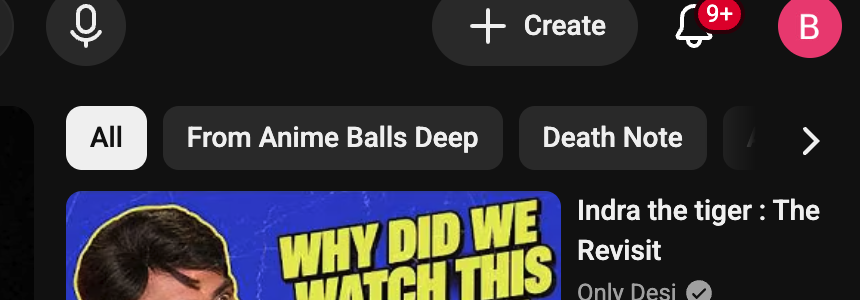
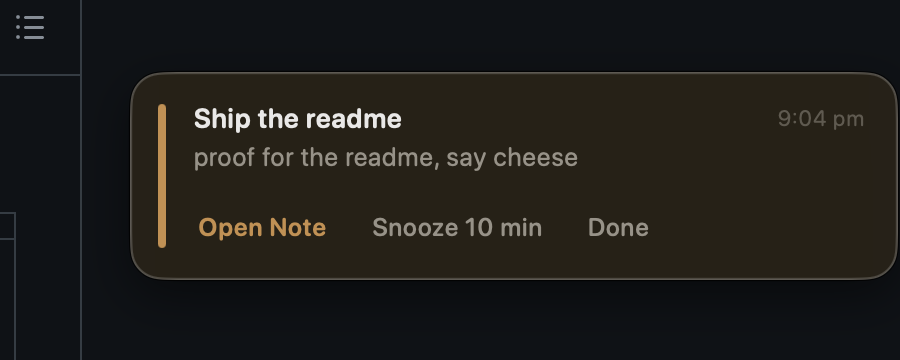
readme: the full tour, with receipts
real reminder pair, shelf shot, complete feature catalog, now-ago fix

diff --git a/Sources/PeelKit/CLI.swift b/Sources/PeelKit/CLI.swift
@@ -33,7 +33,8 @@ public enum CLI {
         for note in notes {
             let todos = note.todoCounts
             let todoTag = todos.open + todos.done > 0 ? "  [\(todos.done)/\(todos.open + todos.done)]" : ""
-            let age = (note.updated.shortAge + " ago").padding(toLength: 8, withPad: " ", startingAt: 0)
+            let raw = note.updated.shortAge
+            let age = (raw == "now" ? raw : raw + " ago").padding(toLength: 8, withPad: " ", startingAt: 0)
             print("\(note.id)  \(age)\(todoTag)  \(note.title)")
         }
         return 0

diff --git a/README.md b/README.md
@@ -53,14 +53,85 @@ one interaction is the whole reason Peel exists. Everything else grew around it.
 | --- | --- |
 | <img src="docs/sticky.png" alt="Sticky with inline image token and todos"> | <img src="docs/formatting.png" alt="Live markdown formatting"> |
 | Screenshots land inline, exactly where you dropped them | Live markdown. Plain text on disk, styled in the editor |
-| <img src="docs/search.png" alt="Spotlight-style search"> | <img src="docs/reminder-card.png" alt="Reminder card"> |
-| Search notes, filenames, and the text inside screenshots | Reminder cards in the note's color. They wait for you |
+| <img src="docs/remind-inline.png" alt="@remind lines with live parse feedback"> | <img src="docs/reminder-card.png" alt="The reminder card that fired from that note"> |
+| Type a time, Peel underlines what it understood | ...and at 9:04 it fired. The card waits until you deal with it |
 
-Plus: a shelf of note tabs when you push your cursor to the screen edge (hover
-a tab for a browser-style ✕), `[[note links]]` between stickies, an inline
-calculator (`240*1.18=` and the answer appears), a `/` command menu, snap
-alignment while dragging, seven muted paper colors, per-note text zoom, and a
-real CLI.
+<p align="center"><img src="docs/shelf.png" alt="The shelf: every note as a tab along the screen edge"><br>
+<sub>The shelf. Cursor to the screen edge, every note shows up as a tab. Click to open, hover for a browser-style close.</sub></p>
+
+<p align="center"><img src="docs/search.png" width="620" alt="Spotlight-style search"><br>
+<sub>Search over note text, filenames, and the words inside your screenshots.</sub></p>
+
+## every damn feature
+
+Some apps list five features because they have five. This list is long because
+the app does a lot, and all of it is free and local.
+
+**Catch the thought before it dies**
+- `⌘⇧Space` from anywhere: latest sticky, focused, cursor ready. Press again to clear the desk
+- `⌃⌥V`: whatever's on the clipboard becomes a sticky. Text, screenshot, files, whatever
+- `peel new "thing"` from the terminal, and the sticky pops on screen
+- everything autosaves 400 ms after you stop typing. There is no save button. Kill the app, kill the Mac, your note survives
+
+**The overlay nobody else ships**
+- floats over fullscreen video and the video keeps playing. Click the sticky, type, click back. Zero interruptions
+- non-activating panels: Peel never steals your app's focus, never switches your menu bar
+- lives on every Space, remembers its exact position and size per monitor, across restarts
+- `⌃⌥B` parks a sticky behind your windows; bring it back the same way
+- idle stickies fade to 40% so you can read what's under them. Touch brings them back. Optional auto-tuck to the shelf
+- drag one near another and the edges snap. Slow drags magnetize, fast drags fly free
+
+**The shelf**
+- push the cursor into a screen edge: every note as a color-coded tab, first line as the label
+- pick your edge (bottom, top, left, right) from the menu bar. Vertical edges get a column
+- click a tab and the sticky expands out of it, dock-style. Hover for ✕, or hit `✕ all`
+
+**Writing that stays honest**
+- what's on disk is what you see: markdown source, styled live. No rich-text lock-in, ever
+- `**bold**` `*italic*` `` `code` `` `~~strike~~` `==highlight==` `#` headings, markers dimmed in place
+- `[]` + space makes a todo, click the box or `⌘↩` to check it. Enter continues lists, bullets, numbering
+- code fences go monospaced, URLs are clickable, first line renders as the note's title
+- `240*1.18=` and the answer appears. Real parser, division by zero does nothing embarrassing
+- `[[note title]]` links between stickies. Type `[[` and your titles autocomplete. Link to a note that doesn't exist and clicking it creates one
+- `⌘+` `⌘−` per-sticky text zoom, seven muted paper colors on `⌃⌥1..7`, paste is always plain text
+- `/` on an empty line opens the command menu: type to filter, click to run. `/count` `/trim` `/lower` `/upper` `/date` `/time` `/copy` and friends
+
+**Images and files**
+- paste or drop an image: saved locally, referenced inline right where your cursor was, as a clickable tag
+- delete the tag and the file isn't gone, it falls back to the attachment strip
+- `⌃⌥S` takes a screenshot straight into the note (the sticky hides itself so it's not in your shot)
+- every image is OCR'd on-device. Search finds notes by the text inside their screenshots
+- non-image files get chips: click to open, right-click to reveal, copy path, or trash. 100 MB+ files get symlinked, not copied
+
+**Reminders that actually fire**
+- `@remind in 20 min pay rent`. `@remind tomorrow 9am call bank`. `@remind every weekday at 9:30 standup`. `@remind every weekend 10am touch grass`
+- relative, absolute, and recurring, parsed by a deterministic grammar with tests, not vibes
+- live feedback while typing: understood time gets underlined orange, red means try again, tooltip shows exactly what's armed
+- `/remind` picks from a menu, click any @remind tag to change its time
+- at fire time: Peel's own floating card in the note's color, with a synthesized two-note chime. Works over fullscreen, ignores Do Not Disturb, survives your screensaver, and waits until you hit Open, Snooze, or Done
+- system notifications stay on as the fallback for when the app isn't running. `peel doctor` diagnoses that whole pipeline when macOS acts up
+
+**Find anything**
+- `⌃⌥F`: Spotlight-style palette, live results, arrow keys, enter to jump. Recent notes when the query's empty
+- searches bodies, attachment names, and OCR'd screenshot text. CLI search includes archived notes too
+
+**Your data, your rules**
+- plain markdown files with readable frontmatter in one transparent folder
+- auto-committed to a local git repo at launch and every 6 hours. Nothing is ever lost, nothing ever leaves your Mac
+- archive instead of delete, attachments trash instead of vanish, corrupt files load as plain text instead of crashing
+- `PEEL_DATA_DIR` moves the whole thing (point it at iCloud Drive for zero-server sync)
+- remap every shortcut, hotkey, and the shelf edge in `config.json`. The JSON is the settings UI
+
+**Claude Code, first-class**
+- `make install` drops a skill that teaches Claude where notes live, how to read your screenshots in the order you placed them, and how to pop results onto your screen with `peel new`
+- edit a note file from anywhere (Claude, vim, a script) and the open sticky updates within 2 seconds
+
+**The little things**
+- double-click a header to collapse a sticky to its title line
+- `⌘⌫` deletes to line start and keeps eating upward on repeat
+- menu bar home with Start at Login, screenshot capture, and every toggle
+- light and dark palettes designed separately, not inverted
+- the whole app is one ~600 KB binary with zero dependencies. Launches before you finish blinking
 
 ## install
 
